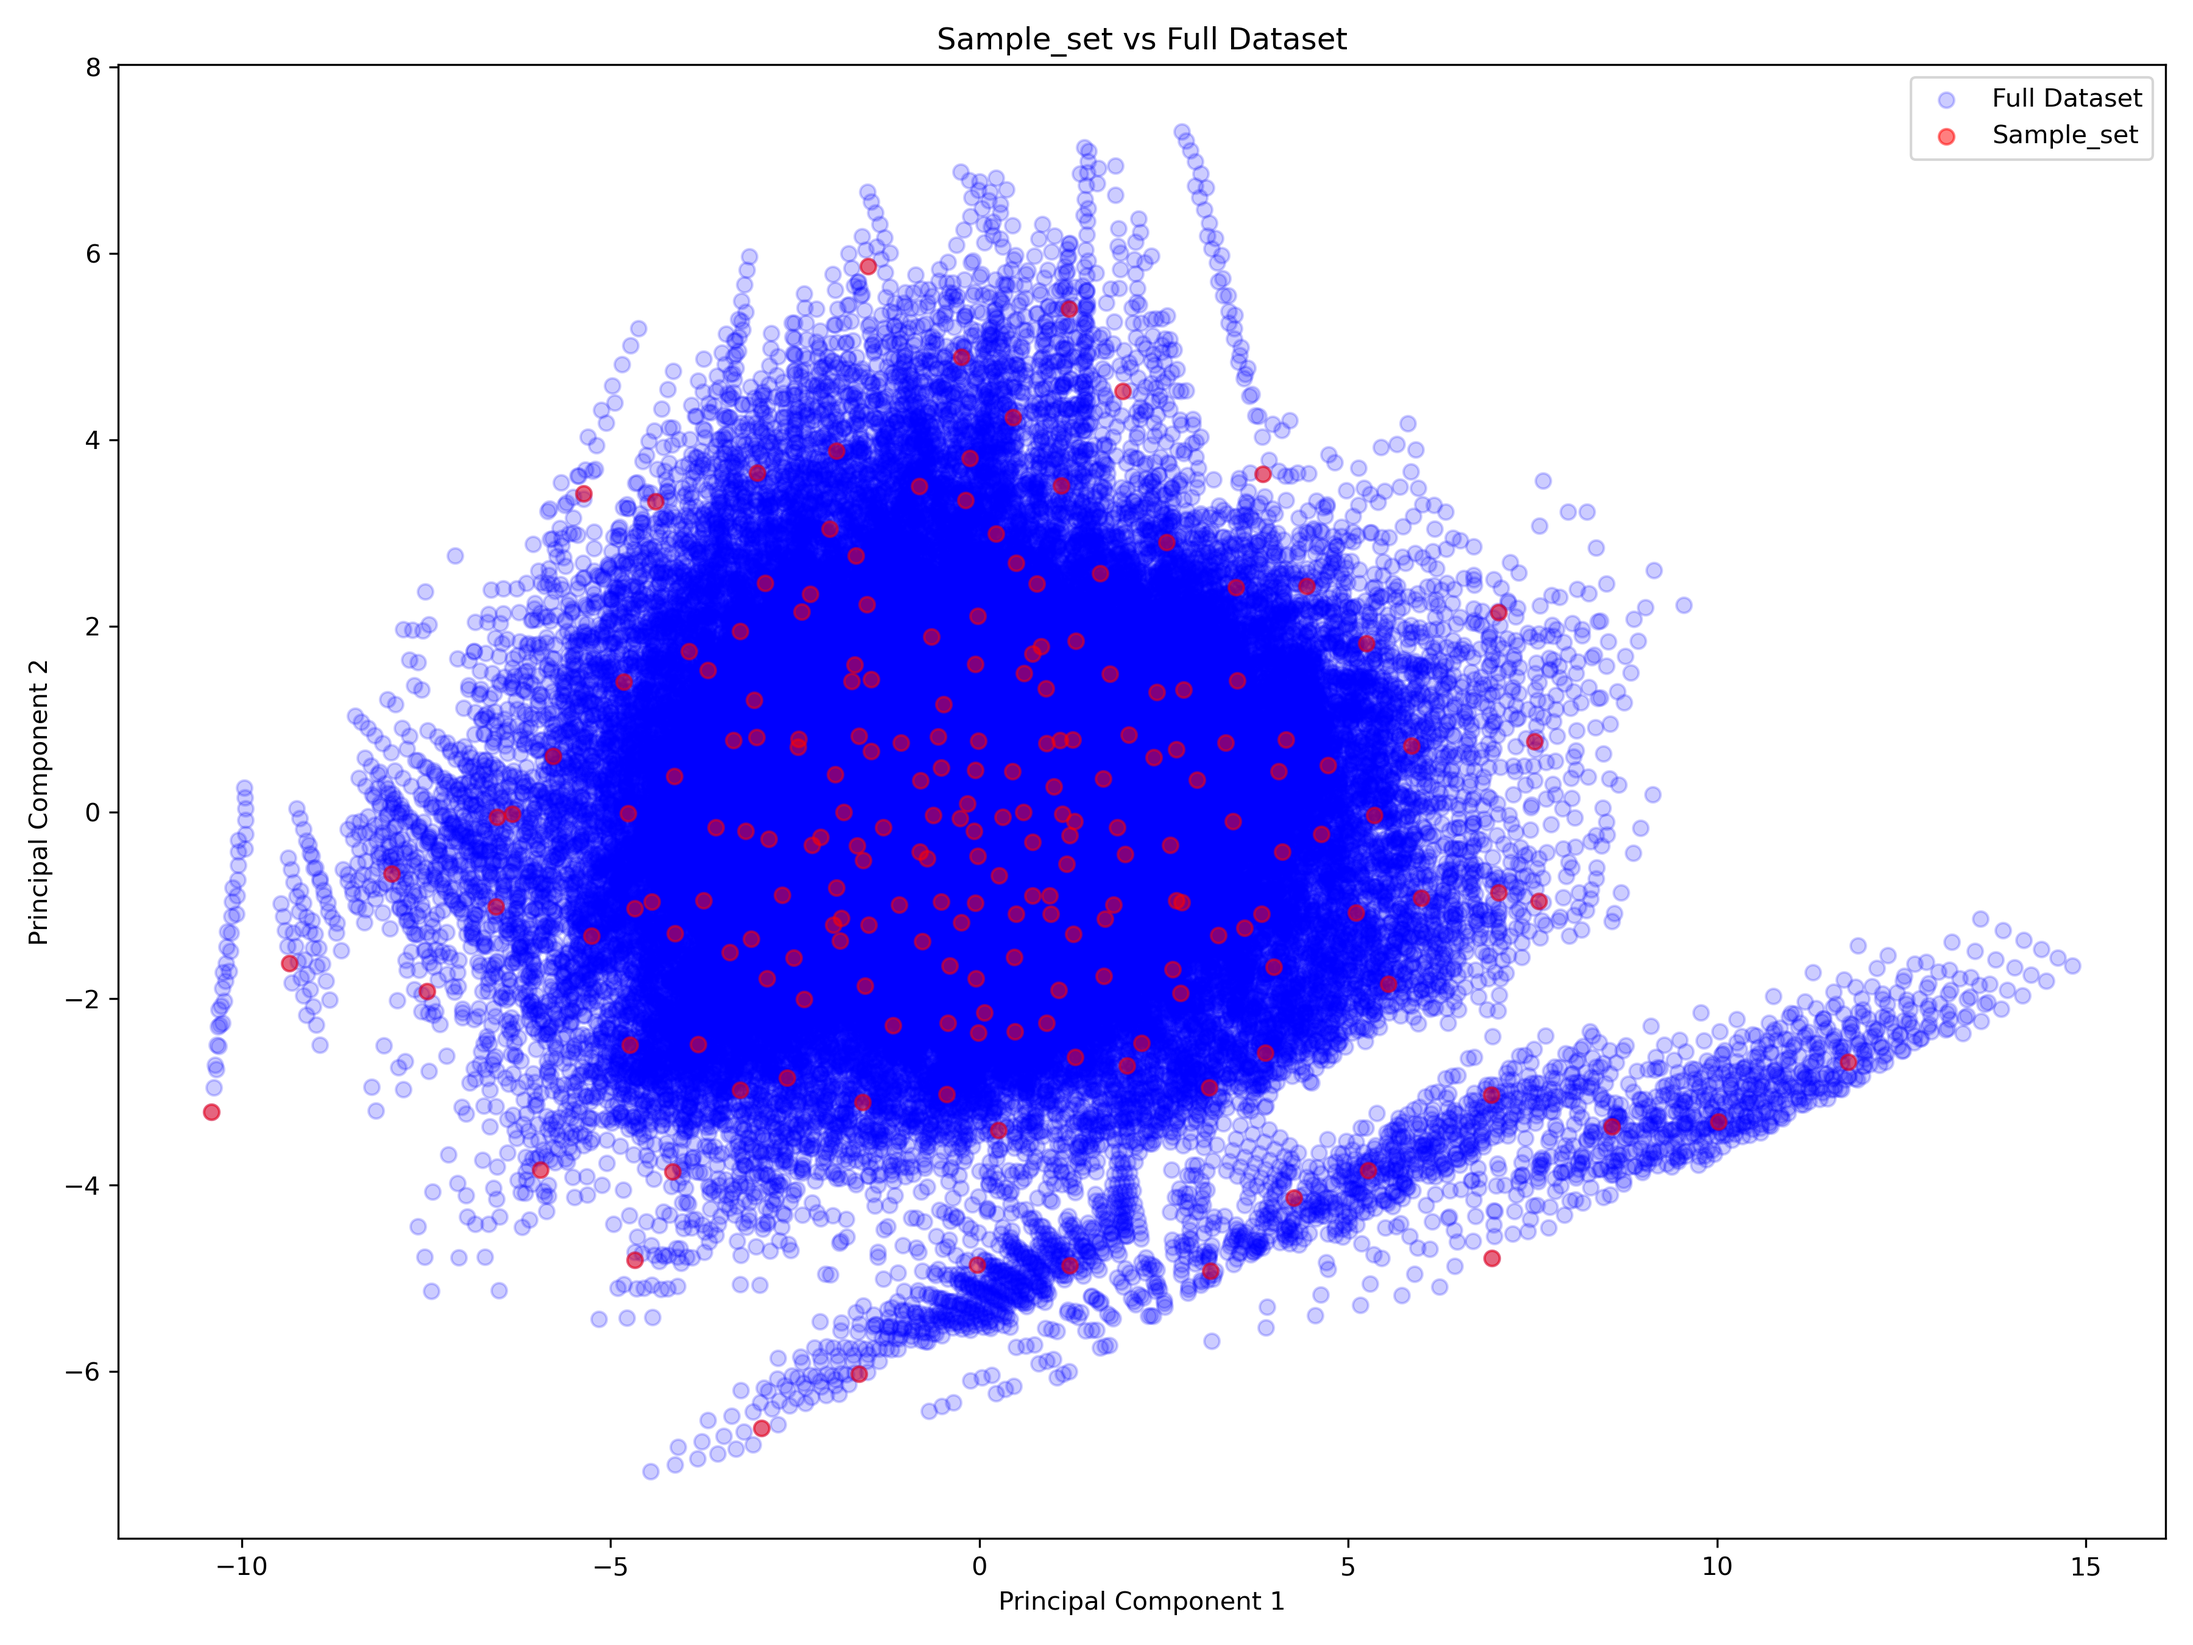
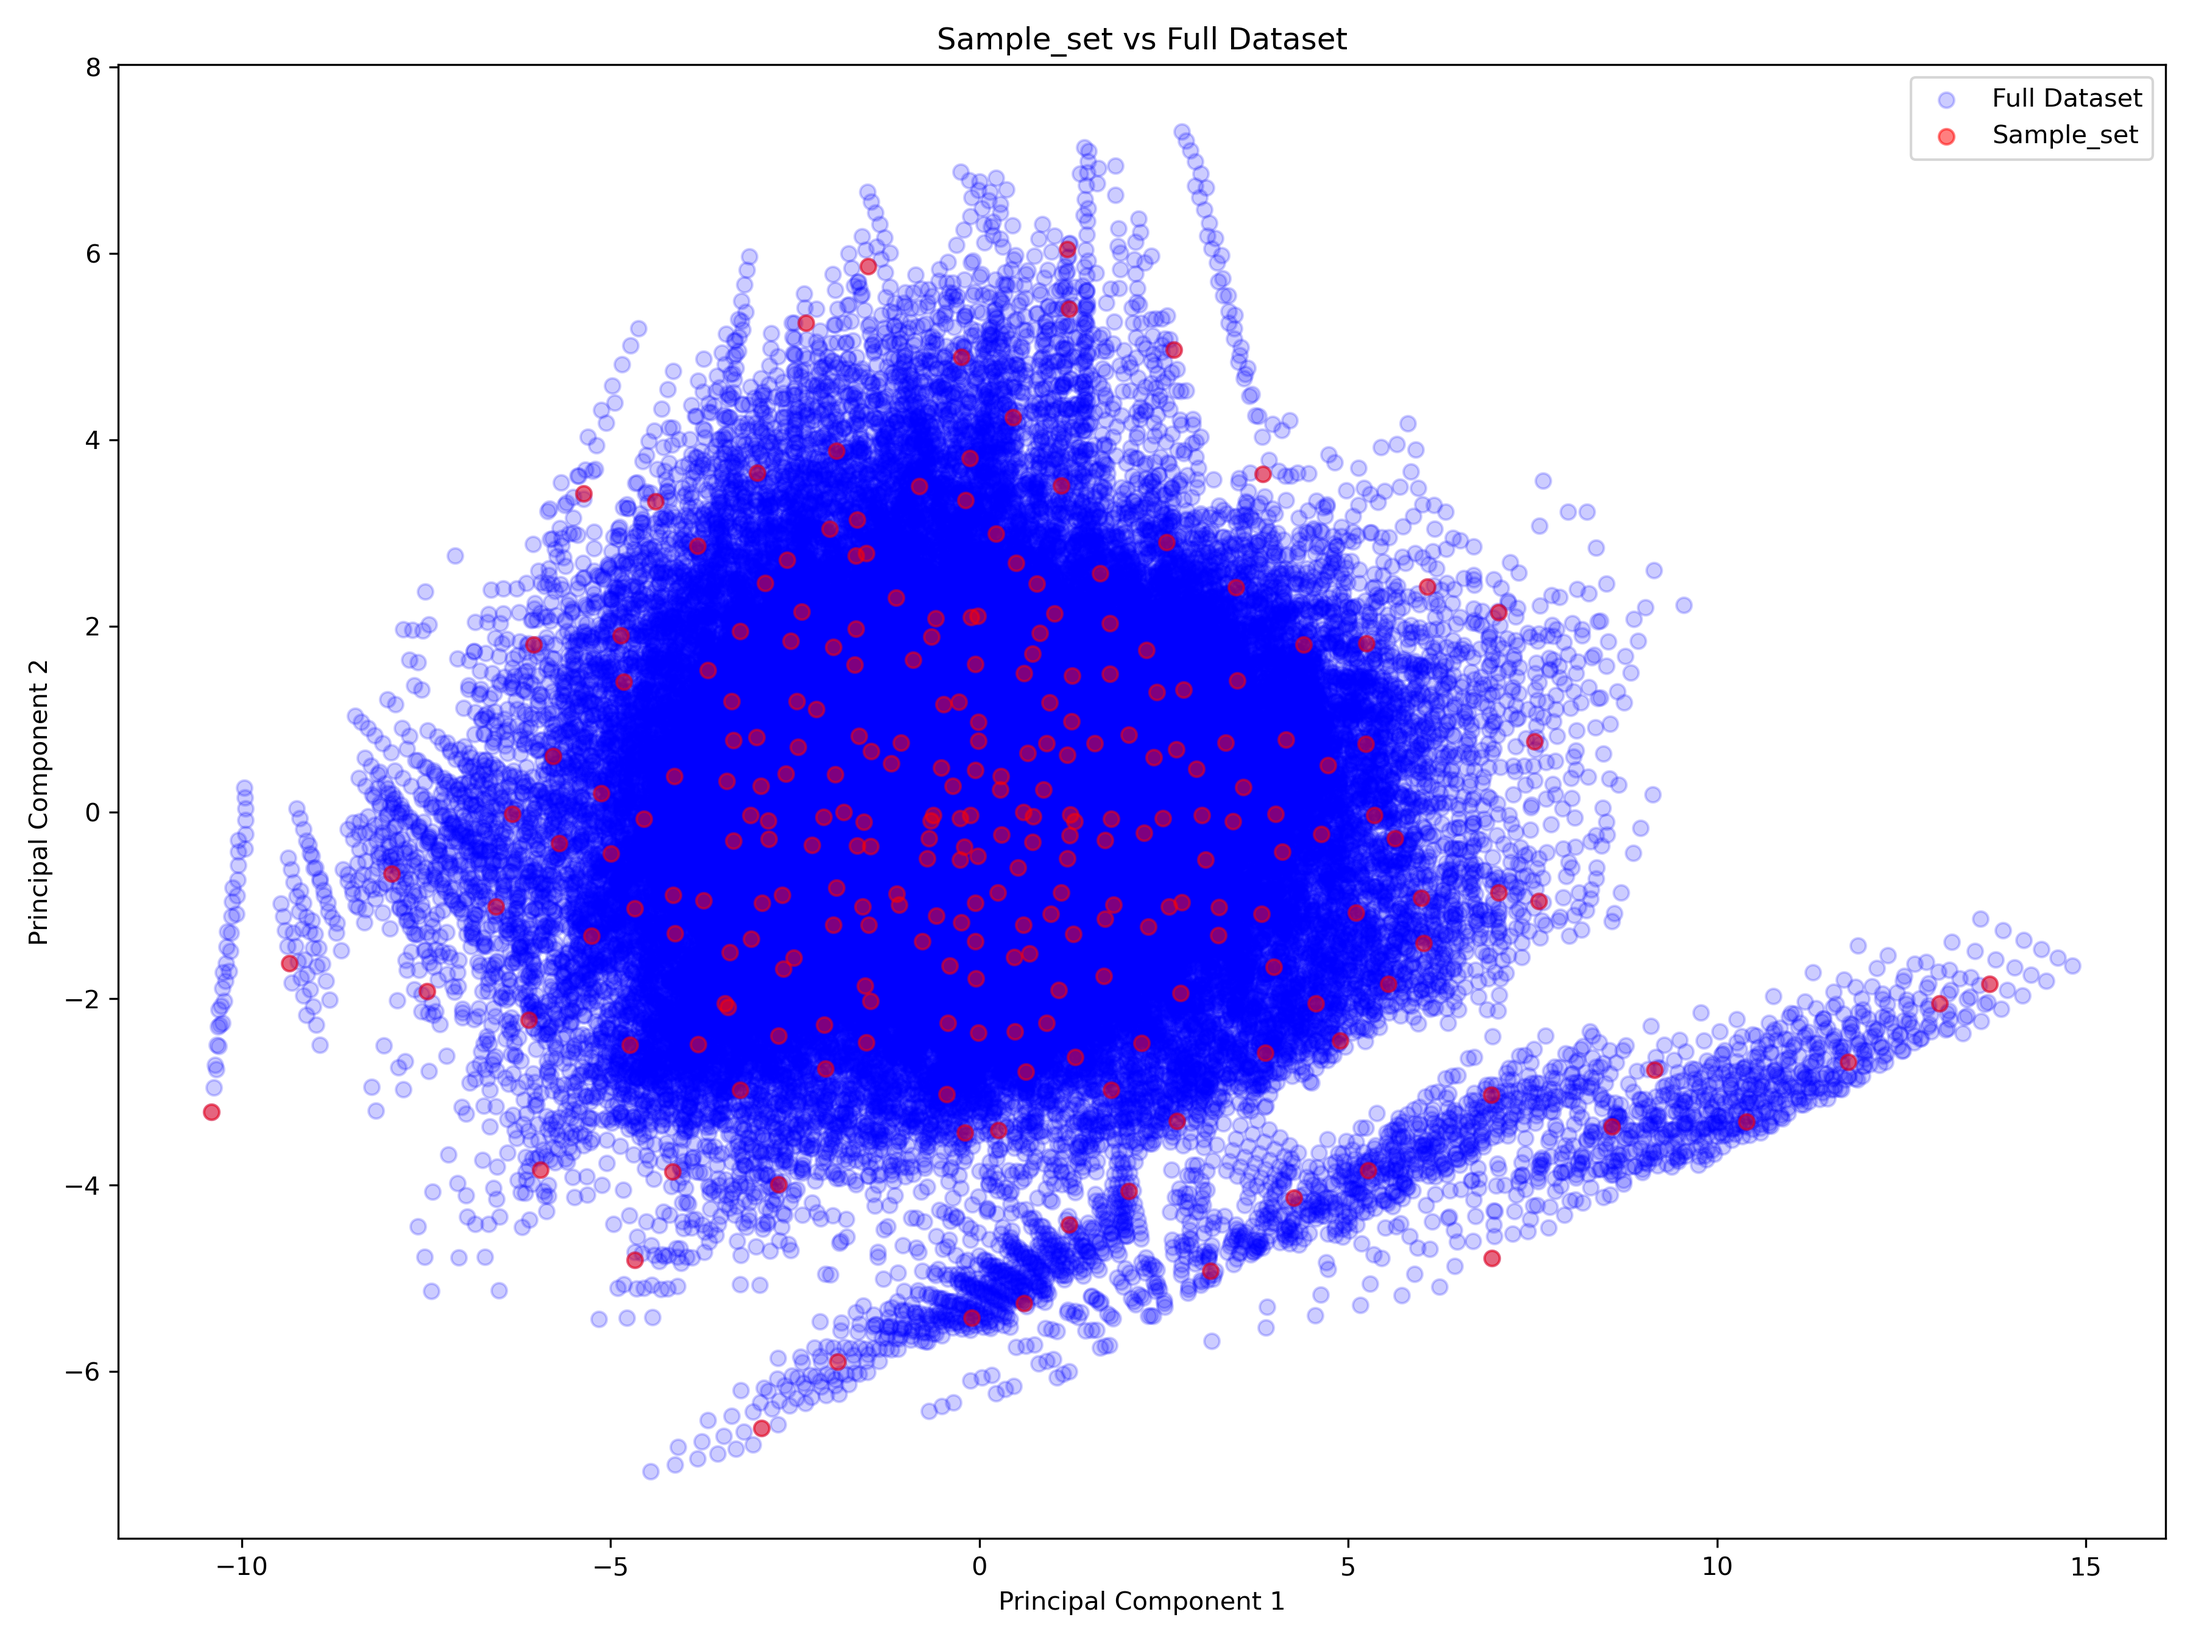
v1.01

diff --git a/py/Sample_set_extraction.py b/py/Sample_set_extraction.py
@@ -25,7 +25,7 @@ stratified_sample = data.groupby(['PC1_quantile', 'PC2_quantile'], group_keys=Fa
 )
 
 # KMeans clustering with n_clusters set to the target small sample size
-final_sample_size = 200  # Desired final sample size
+final_sample_size = 250  # Desired final sample size
 kmeans = KMeans(n_clusters=final_sample_size, init='k-means++', random_state=42)
 kmeans.fit(stratified_sample[['PC1', 'PC2']])
 

diff --git a/py/Filter_csv.py b/py/Filter_csv.py
@@ -14,6 +14,6 @@ filter_values = df1[column_to_filter].tolist()
 filtered_df = df2[df2[column_to_filter].isin(filter_values)]
 
 # Save the filtered data to a new csv file
-filtered_df.to_csv("filtered_data.csv", index=False)
+filtered_df.to_csv("Filtered_data.csv", index=False)
 
 print("Filtering completed! The results have been saved to Filtered_data.csv")
